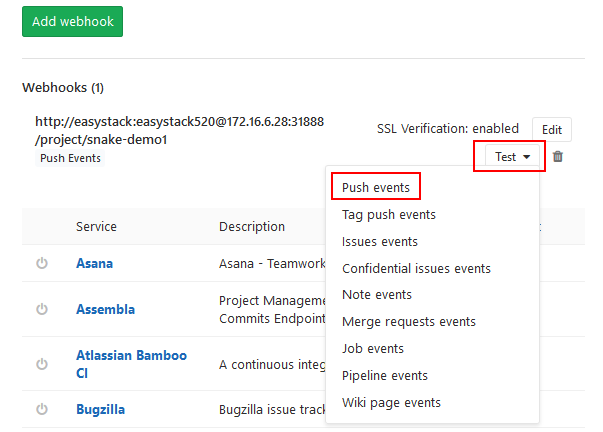
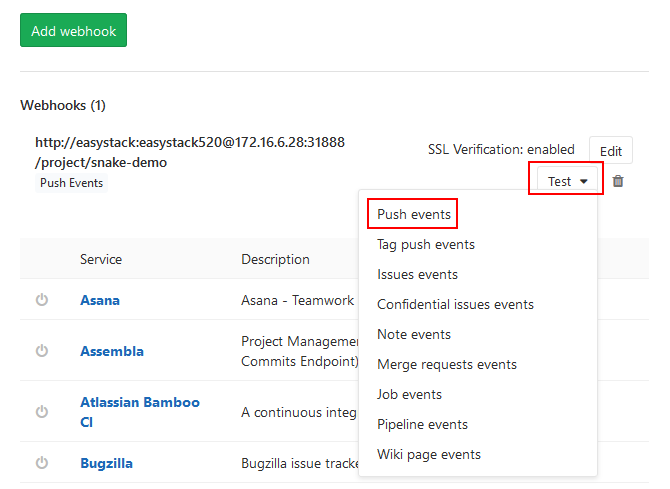
commit

diff --git a/1_基础实践/3_CICD场景实践-JavaScript应用.md b/1_基础实践/3_CICD场景实践-JavaScript应用.md
@@ -18,7 +18,7 @@
 [root@docker-ce ~]# git clone https://github.com/PabloZhong/Snake.git
 ```
 
-可参考GitLab中界面提示，通过SSH方式将源代码Push到GitLab中：  
+随后可参考GitLab中界面提示，通过SSH方式将源代码Push到GitLab中：  
 （备注：需要提前在运行Git的虚拟机上修改/etc/hosts文件，加入集群节点NodeIP与域名的映射，如本示例加入172.16.6.48 gitlab.example.org）
 ```
 [root@docker-ce ~]# cd Snake/
@@ -35,13 +35,19 @@ Push成功后即可在GitLab的“snake-demo”项目中看到已上传的源代
 
 ## 2. 创建Jenkins Pipeline，并部署Snake应用    
 
-**Step 1: 制作用于编译Snake源码的Jenkins Slave镜像。**  
-为了完成使用jenkins slave来进行CI工作，需要自己制作一个jenkins slave镜像，并上传到EKS的镜像仓库中，自己制作jenkins slave镜像步骤如下：
+**Step 1: 制作Jenkins Slave镜像。**  
+为了使用Jenkins Slave来执行Pipeline，首先需要制作Jenkins Slave镜像，并上传至EKS的镜像仓库中。   
+具体步骤如下：  
 
-1） 编写Dockefile如下：（参考https://github.com/PabloZhong/jenkins-1/tree/master/slave-base） 
+1） 在本地虚拟机Linux环境中，执行：  
+```
+[root@docker-ce jenkins-slave]# git clone https://github.com/PabloZhong/jenkins-1  
+[root@docker-ce jenkins-slave]# cd jenkins-1/slave-base/  
+```
+
+可以查看到所需要使用到的Dockerfile如下：  
 ```
 FROM openshift/origin
-
 MAINTAINER Ben Parees <bparees@redhat.com>
 
 ENV HOME=/home/jenkins
@@ -101,40 +107,47 @@ ENTRYPOINT ["/usr/local/bin/run-jnlp-client"]
 2）构建Jenkins Slave镜像  
 在Dockerfile所在的路径下执行以下命令进行镜像构建： 
 ```
-[root@docker-ce jenkins-slave]# docker build -t jenkins-slave:v1 .
+[root@docker-ce slave-base]# docker build -t jenkins-slave:v1 .
 ```
 
 3）上传Jenkins Slave镜像  
 Jenkins Slave镜像制作完成后，使用docker push命令将Jenkins Slave镜像上传到EKS的镜像仓库中。  
 ```
-[root@docker-ce jenkins-slave]# docker push 172.16.0.176/3dc70621b8504c98/jenkins-slave:v1
+[root@docker-ce slave-base]# docker push 172.16.0.176/3dc70621b8504c98/jenkins-slave:v1
 ```
-上传成功后可查看已上传的镜像： 
-![](Images/3/jenkins-slave-docker.png) 
-后续步骤中会使用上面的镜像执行Jenkins Pipeline。  
+注：请按需修改镜像仓库地址和用户名。  
 
-**Step 2: 通过Blue Ocean创建Jenkins Pipeline。**  
+上传成功后，可查看已上传的镜像：  
+![](Images/3/check-jenkins-slave-image.png) 
+后续步骤中会使用这个镜像来执行Jenkins Pipeline。  
 
-进入BlueOcean：  
+**Step 2: 通过Jenkins Blue Ocean创建Jenkins Pipeline。**   
+使用Jenkins Blue Ocean能够实现更丰富、更直观的Pipeline功能。  
+
+在Jenkins主界面点击“Open Blue Ocean”进入Blue Ocean操作界面：   
 ![](Images/3/jenkins-blue-ocean.png)   
 
 点击“创建流水线”：   
 ![](Images/3/jenkins-create-pipeline-1.png)   
-填入GitLab代码仓库对应的项目地址：（注：Blue Ocean默认需要使用SSH方式）   
+
+填入GitLab代码仓库对应的项目地址：（注意：SSH的URL中需要将域名改成NodeIP）   
 ![](Images/3/jenkins-create-pipeline-2.png)  
-需要将Jenkins自动生成的SSH公钥添加到GitLab中：  
+
+Jenkins将自动生成SSH Key Pair，需要将SSH公钥添加到GitLab中，添加路径为【GitLab】-【User Setting】-【SSH Keys】：  
 ![](Images/3/gitlab-ssh-key.png)  
 
-回到Jenkins Blue Ocean界面，点击“创建Pipeline”之后，将会自动搜索GitLab代码库中的Jenkinsfile，并按照Jenkinsfile执行第一次Pipeline：  
+回到Jenkins Blue Ocean界面，点击“创建Pipeline”之后，Jenkins首先将会自动拉取GitLab代码库中的Jenkinsfile，并按照Jenkinsfile执行第一次Pipeline：  
 图缺  
-![](Images/3/图缺.png)  
+![](Images/3/jenkins-initial-pipeline-1.png)  
+![](Images/3/jenkins-initial-pipeline-2.png)  
 
-其中Jenkinsfile如下：
+本示例中的Jenkinsfile参考如下：
 ```
 podTemplate(name: 'jnlp', label: 'jnlp', namesapce: 'default', cloud: 'kubernetes',
   containers: [
         containerTemplate(
             name: 'jnlp',
+            //请按需修改Jenkins Slave镜像名称
             image: 'hub.easystack.io/3dc70621b8504c98/jenkins-slave:v1',
             command: '',
             args: '${computer.jnlpmac} ${computer.name}',
@@ -151,51 +164,56 @@ podTemplate(name: 'jnlp', label: 'jnlp', namesapce: 'default', cloud: 'kubernete
   ) {
 
   node('jnlp') {
-    stage('devops for snake game') {
+    stage('CICD for Snake Game demo') {
         container('jnlp') {
-            stage("clone snake code") {
+            stage("Clone source code of Snake game") {
+                //请按需修改源代码库地址
                 git 'http://172.16.6.30:30080/easystack/snake-demo.git'
             }
-            
-            stage('unit test') {
-                sh 'echo "unit test command"'
-            }
-            
-            stage('build docker image') {
+                      
+            stage('Build & push docker image') {
+                //请按需修改镜像仓库的账号和密码
                 sh """
-                    docker login -u 3dc70621b8504c98 -p Tcdf4f05247d79dd7 hub.easystack.io
-                    docker build -t hub.easystack.io/3dc70621b8504c98/snake:${BUILD_NUMBER} .
+                    docker login -u 3dc70621b8504c98 -p Tcdf4f05247d79dd7 hub.easystack.io  
+                    docker build -t hub.easystack.io/3dc70621b8504c98/snake:${BUILD_NUMBER} . 
                     docker push hub.easystack.io/3dc70621b8504c98/snake:${BUILD_NUMBER}
                 """
             }
             
-            //stage('Deploy to EKS') 
-            //   sh """kubectl set image deployment/snake-snake-e8fluud7 snake-snake-e8fluud7=hub.easystack.io/3dc70621b8504c98/snake:${BUILD_NUMBER}"""
+            //stage('Deploy app to EKS') {
+                //请按需修改Deployment名称和Snake镜像名称
+                //sh """kubectl set image deployment/snake-snake-e8fluud7 snake-snake-e8fluud7=hub.easystack.io/3dc70621b8504c98/snake:${BUILD_NUMBER}"""
             //}
         }
     }
  }
 }
 ```
-其中：
-1）```image: 'hub.easystack.io/3dc70621b8504c98/jenkins-slave:v1'```指明之前所构建的Jenkins Slave镜像。  
+其中： 
+1）```image: 'hub.easystack.io/3dc70621b8504c98/jenkins-slave:v1'```指定之前所构建的Jenkins Slave镜像。  
 2）```git 'http://172.16.6.30:30080/easystack/snake-demo.git'```将Snake Demo源代码从GitLab中拉取下来，注意按需修改源代码项目地址。 
 3）下面的命令分别实现登录镜像仓库、构建Snake Demo镜像以及上传镜像：  
 ```
  stage('Build & push docker image') {
+                //请按需修改镜像仓库的账号和密码
                 sh """
                     docker login -u 3dc70621b8504c98 -p Tcdf4f05247d79dd7 hub.easystack.io
                     docker build -t hub.easystack.io/3dc70621b8504c98/snake:${BUILD_NUMBER} .
                     docker push hub.easystack.io/3dc70621b8504c98/snake:${BUILD_NUMBER}
                 """
             }
-```
-在EKS的镜像仓库中查看第一次构建的Snake Demo镜像： 
+``` 
+
+在Blue Ocean界面中可以查看Pipeline执行进度：  
+![](Images/3/check-initial-pipeline.png)  
+
+在EKS的镜像仓库中查看第一次构建并上传的Snake Demo镜像： 
 ![](Images/3/check-snake-image.png) 
 
 注：按照上面所示的Jenkinsfile执行的Pipeline，第一次构建只会完成Snake Demo镜像构建并上传到EKS镜像仓库，下一步需要手动进行第一次应用部署。  
 
-在EKS中进行Snake Demo应用的第一次部署，选择第一次执行Pipeline生成的Snake Demo镜像： 
+**Step 3: 在EKS中进行Snake Demo应用的第一次部署。**  
+在EKS中，选择第一次执行Pipeline生成的Snake Demo镜像，进行Snake Demo应用部署： 
 ![](Images/3/create-initial-snake-1.png)  
 ![](Images/3/create-initial-snake-2.png)  
 
@@ -204,23 +222,20 @@ podTemplate(name: 'jnlp', label: 'jnlp', namesapce: 'default', cloud: 'kubernete
 
 通过NodeIP:Port方式，访问初次部署的Snake Demo应用，可以发现是一个“贪吃蛇”游戏： 
 ![](Images/3/visit-initial-snake.png) 
-
     
-请记录Snake Demo应用的部署（Deployment）的名称，后续配置Jenkins自动部署时需要用到。  
+请记录Snake Demo应用的部署（Deployment）的名称，后续配置Jenkins自动部署时需要使用。  
 
-**Step 3: 配置自动部署。**   
+## 3. 配置自动部署    
+
 修改Jenkinsfile源代码，增加自动部署。  
 
-修改之后的Jenkinsfile如下：
+修改之后的Jenkinsfile如下：（增加最后的CD部署Stage）  
 ```
-[root@docker-ce ~]# cd Snake
-[root@docker-ce Snake]# ls
-css  Dockerfile  index.html  Jenkinsfile  js  LICENSE  README.md
-[root@docker-ce Snake]# cat Jenkinsfile
 podTemplate(name: 'jnlp', label: 'jnlp', namesapce: 'default', cloud: 'kubernetes',
   containers: [
         containerTemplate(
             name: 'jnlp',
+            //请按需修改Jenkins Slave镜像名称
             image: 'hub.easystack.io/3dc70621b8504c98/jenkins-slave:v1',
             command: '',
             args: '${computer.jnlpmac} ${computer.name}',
@@ -237,27 +252,25 @@ podTemplate(name: 'jnlp', label: 'jnlp', namesapce: 'default', cloud: 'kubernete
   ) {
 
   node('jnlp') {
-    stage('devops for snake game') {
+    stage('CICD for Snake Game demo') {
         container('jnlp') {
-            stage("clone snake code") {
-                 git 'http://172.16.6.30:30080/easystack/snack-demo.git'
+            stage("Clone source code of Snake game") {
+                //请按需修改源代码库地址
+                git 'http://172.16.6.30:30080/easystack/snake-demo.git'
             }
-            
-            stage('unit test') {
-                sh 'echo "unit test command"'
-            }
-            
-            stage('build docker image') {
+                      
+            stage('Build & push docker image') {
+                //请按需修改镜像仓库的账号和密码
                 sh """
-                    docker login -u 3dc70621b8504c98 -p Tcdf4f05247d79dd7 hub.easystack.io
-                    docker build -t hub.easystack.io/3dc70621b8504c98/snake:${BUILD_NUMBER} .
+                    docker login -u 3dc70621b8504c98 -p Tcdf4f05247d79dd7 hub.easystack.io  
+                    docker build -t hub.easystack.io/3dc70621b8504c98/snake:${BUILD_NUMBER} . 
                     docker push hub.easystack.io/3dc70621b8504c98/snake:${BUILD_NUMBER}
                 """
             }
             
-            stage('deploy to k8s') {
-                
-                sh """kubectl set image deployment/snake snake=hub.easystack.io/captain/snake:${BUILD_NUMBER}"""
+            stage('Deploy app to EKS') {
+                //请按需修改Deployment名称和Snake镜像名称
+                sh """kubectl set image deployment/snake-snake-e8fluud7 snake-snake-e8fluud7=hub.easystack.io/3dc70621b8504c98/snake:${BUILD_NUMBER}"""
             }
         }
     }
@@ -265,25 +278,27 @@ podTemplate(name: 'jnlp', label: 'jnlp', namesapce: 'default', cloud: 'kubernete
 }
 ```
 
-**Step 4: 配置Webhook实现自动触发构建。**      
+## 4. 配置自动触发构建    
+为了实现GitLab中更新代码操作能够自动触发Jenkins Pipeline构建，我们需要在GitLab中配置Webhook。     
+具体步骤如下：  
+在GitLab的项目中选择【Settings】->[Integrations]，构建Webhook：  
+![](Images/3/gitlab-add-webhook.png)   
+其中URL需要填写准确，具体的格式可参考：http://<Jenkins user account>:<Jenkins user password>@<NodeIP>:<Jenkins Service NodePort>/project/<Jenkins project name>  
 
-在GitLab的项目中选择【Settings】->[Integrations]，构建Webhook  
-![](Images/3/gitlab-integration-1.png)
-![](Images/3/gitlab-integration-2.png)  
+>注：此处选择的触发方式（Trigger）为“Push events”，代表每次Push代码操作都会触发Webhook，您也可以选择其他触发（Trigger）方式，如“Merge Request events”等。  
 
-添加成功后，点击此webhook后面的test进行测试   
-在GitLab中测试连通性：  
+添加成功后，点击“test”进行测试：   
 ![](Images/3/gitlab-webhook-test-1.png)  
 
-如果返回Hook successfully executed,表示配置成功。
+如果返回“Hook executed successfully: HTTP 200 ”即表示Webhook配置成功：
 ![](Images/3/gitlab-webhook-test-2.png)  
 
-这样，下次push代码后，就会自动触发Jenkins上相对应的Pipeline进行构建，无需手动启动Jenkins Pipeline。  
+后续每次往GitLab的“snake-demo”项目中Push代码后，就会自动触发Jenkins上相对应的Pipeline进行构建，而无需手动启动Jenkins Pipeline。  
 
 
-## 3. CI/CD演示    
+## 5. CI/CD效果演示    
 
-在gitlab中修改snake中的文件均会触发Jenkins自动构建snake项目： 
+在gitlab中修改snake中的文件均会触发Jenkins自动构建Snake Demo项目： 
 
 修改snake代码中食物的颜色，并自动部署新的snake镜像：通过修改snake代码下的css文件中的 main-snake.css中的 
 ![](Images/3/foodbody.png)
